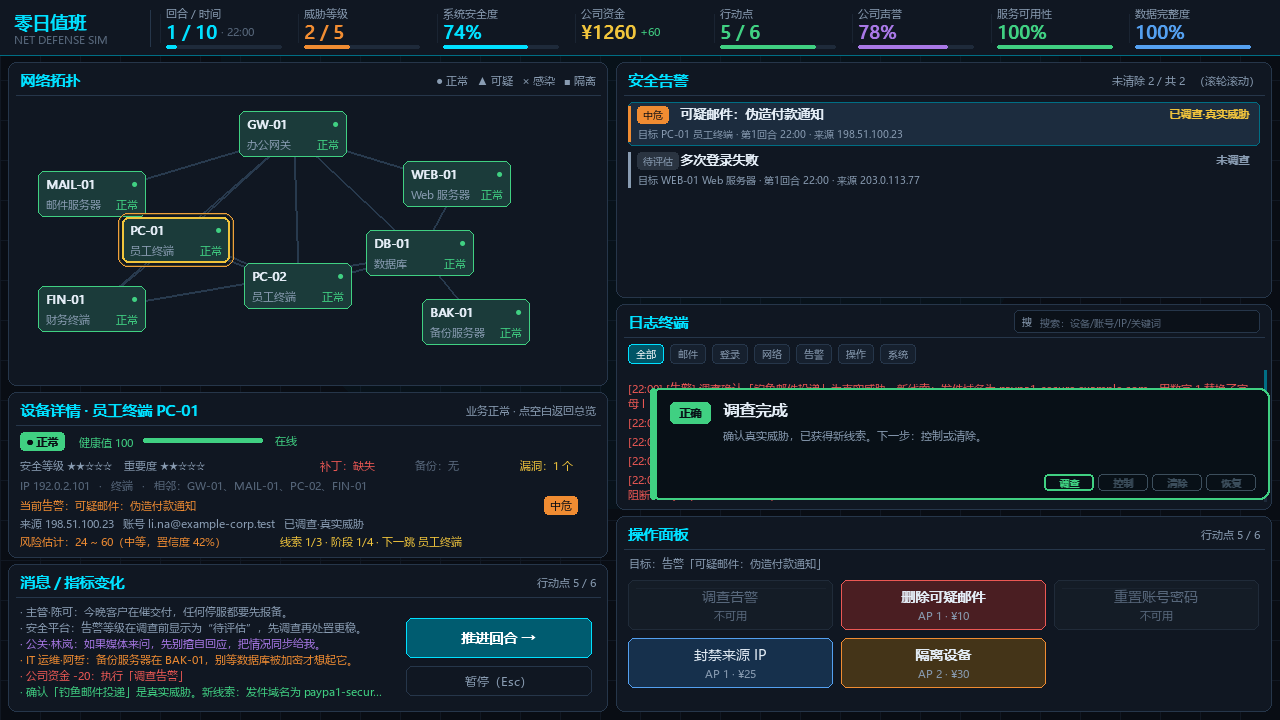
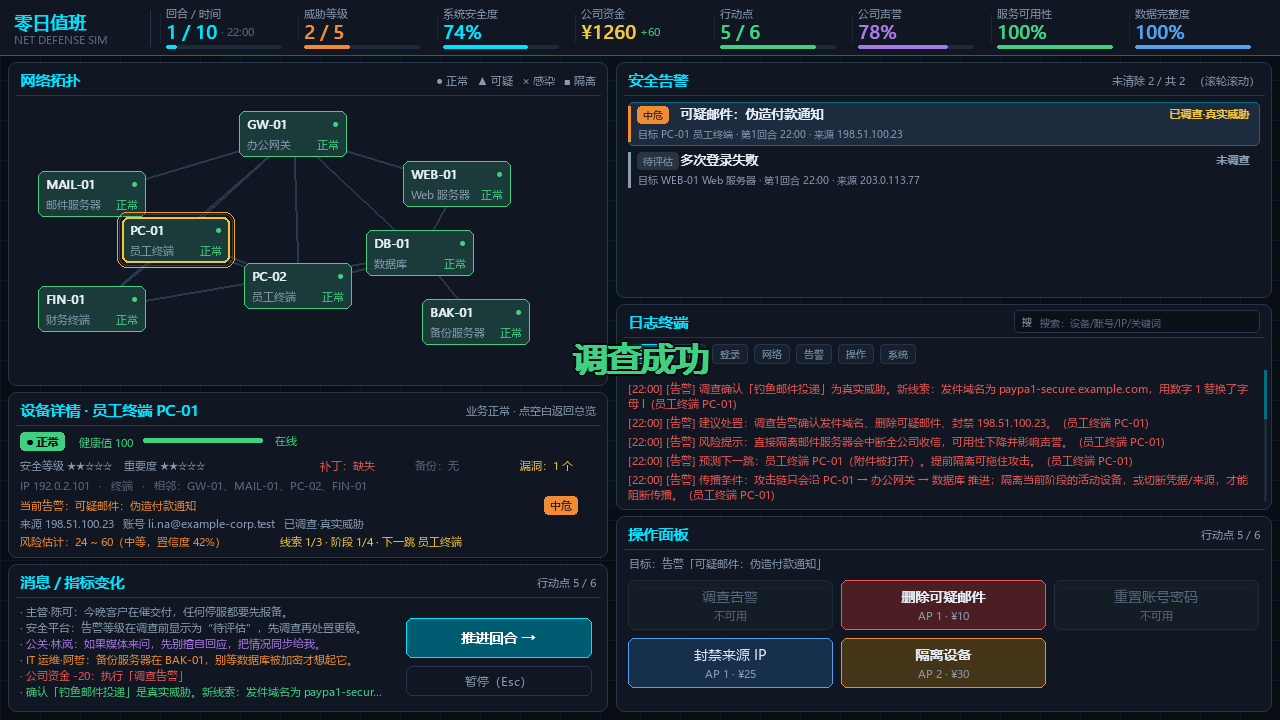
feat: v1.4.3 反馈改为居中透明单句

Changed region(s): [[0.4375, 0.4583, 1.0, 0.7028]]

diff --git a/docs/index.html b/docs/index.html
@@ -77,7 +77,7 @@
       <div class="hero-copy">
         <p class="eyebrow reveal">
           <span class="eyebrow-dot"></span>NETWORK DEFENSE SIMULATOR
-          <span class="pill">v1.4.2</span>
+          <span class="pill">v1.4.3</span>
         </p>
         <h1 class="reveal" style="--i:1">守到<br><em>早上八点。</em></h1>
         <p class="lead reveal" style="--i:2">
@@ -207,7 +207,7 @@
             <span class="card-index">05</span>
           </header>
           <h3>每一步都有反馈</h3>
-          <p>调查、控制、清除、恢复后，屏幕右下直接显示「为什么这一步是对的」，并标出所处阶段；不再只写进日志。</p>
+          <p>调查、控制、清除、恢复后，屏幕中央只显示一句「调查成功 / 控制成功 / 清除成功 / 恢复完成」，透明无框；不再只写进日志。</p>
         </article>
 
         <article class="card reveal" style="--i:5">

diff --git a/docs/style.css b/docs/style.css
@@ -634,10 +634,10 @@ main { position: relative; z-index: 2; }
   font-family: var(--mono);
   font-size: 10.5px;
   letter-spacing: .14em;
-  color: rgba(122, 242, 255, .8);
+  color: rgba(122, 242, 255, .9);
 }
 .rail strong { display: block; font-size: 14.5px; margin-bottom: 4px; }
-.rail p { color: var(--faint); font-size: 12.5px; line-height: 1.7; }
+.rail p { color: rgba(159, 179, 199, .82); font-size: 12.5px; line-height: 1.7; }
 
 /* ------------------------------ 数字带 ------------------------------ */
 .stats {

diff --git a/ui/effects.py b/ui/effects.py
@@ -206,47 +206,22 @@ class EffectsManager:
         feedback = self.feedback
         if feedback is None:
             return
+        progress = 1.0 - feedback.life / feedback.total
         alpha = 255
-        if feedback.life < 0.45:
-            alpha = int(255 * feedback.life / 0.45)
-        width = 620
-        height = 112
-        x = 650
-        y = 388
-        panel = pygame.Surface((width, height), pygame.SRCALPHA)
-        pygame.draw.rect(panel, (8, 16, 23, alpha), panel.get_rect(), border_radius=10)
-        pygame.draw.rect(panel, (*feedback.color, alpha), panel.get_rect(), 2, border_radius=10)
-        pygame.draw.rect(panel, (*feedback.color, alpha), (0, 0, 7, height), border_radius=3)
-        tag_font = draw_utils.get_font(11, True)
-        tag_text = "正确" if feedback.correct else "注意"
-        tag = tag_font.render(tag_text, True, (8, 16, 23))
-        tag_bg = pygame.Rect(20, 14, tag.get_width() + 18, 22)
-        pygame.draw.rect(panel, (*feedback.color, alpha), tag_bg, border_radius=5)
-        panel.blit(tag, (tag_bg.x + 9, tag_bg.y + 3))
-        title_font = draw_utils.get_font(16, True)
-        panel.blit(title_font.render(feedback.title, True, settings.TEXT), (20 + tag_bg.width + 12, 11))
-        draw_utils.draw_text_block(
-            panel,
-            feedback.detail,
-            draw_utils.get_font(11),
-            settings.TEXT_DIM,
-            (20 + tag_bg.width + 12, 40),
-            width - tag_bg.width - 52,
-            line_height=16,
-            max_lines=2,
-        )
-        if feedback.stage:
-            stages = ("调查", "控制", "清除", "恢复")
-            stage_font = draw_utils.get_font(10, True)
-            x_stage = width - 226
-            for index, name in enumerate(stages):
-                active = name == feedback.stage
-                color = feedback.color if active else (60, 78, 92)
-                chip = pygame.Rect(x_stage + index * 54, height - 26, 50, 17)
-                pygame.draw.rect(panel, (*color, alpha), chip, border_radius=4, width=2 if active else 1)
-                image = stage_font.render(name, True, color)
-                panel.blit(image, (chip.centerx - image.get_width() // 2, chip.y + 2))
-        surface.blit(panel, (x, y))
+        if feedback.life < 0.55:
+            alpha = int(255 * feedback.life / 0.55)
+        title = feedback.title
+        font = draw_utils.get_font(34, True)
+        text = font.render(title, True, feedback.color)
+        text.set_alpha(alpha)
+        x = settings.SCREEN_WIDTH // 2 - text.get_width() // 2
+        y = settings.SCREEN_HEIGHT // 2 - text.get_height() // 2 - int(progress * 24)
+        # 只保留一句结果，不加底板、不加边框；用深色描边保证在复杂背景上可读。
+        shadow = font.render(title, True, (3, 7, 10))
+        shadow.set_alpha(int(alpha * 0.8))
+        for dx, dy in ((-2, 0), (2, 0), (0, -2), (0, 2)):
+            surface.blit(shadow, (x + dx, y + dy))
+        surface.blit(text, (x, y))
 
     def _draw_particles(self, surface: pygame.Surface) -> None:
         for particle in self.particles:

diff --git a/tests/test_smoke.py b/tests/test_smoke.py
@@ -486,11 +486,13 @@ class GameFlowTest(unittest.TestCase):
         self.assertIsNotNone(game.effects.feedback)
         assert game.effects.feedback is not None
         self.assertTrue(game.effects.feedback.correct)
+        self.assertEqual(game.effects.feedback.title, "调查成功")
         self.assertEqual(game.effects.feedback.stage, "调查")
 
         game.select_device("PC-01")
         game.perform_action(self._option("isolate"), game.current_target())
         assert game.effects.feedback is not None
+        self.assertEqual(game.effects.feedback.title, "控制成功")
         self.assertEqual(game.effects.feedback.stage, "控制")
         game.draw()  # 反馈卡必须能实际绘制，不能只存在于状态里
 

diff --git a/game.py b/game.py
@@ -837,12 +837,8 @@ class Game:
         stage = ""
         if action_id == "investigate":
             stage = "调查"
-            if "误报" in result.message:
-                title = "判断正确：误报"
-                detail = "确认是误报。关闭告警即可，不需要隔离设备。"
-            else:
-                title = "调查完成"
-                detail = "确认真实威胁，已获得新线索。下一步：控制或清除。"
+            title = "调查成功"
+            detail = result.message
         elif action_id in ("isolate", "shutdown", "block_source"):
             stage = "控制"
             title = "控制成功"

diff --git a/settings.py b/settings.py
@@ -52,7 +52,7 @@ HISTORY_FILE = SAVE_DIR / "history.json"
 # 基本信息
 # ---------------------------------------------------------------------------
 GAME_TITLE = "零日值班：网络安全防御模拟器"
-GAME_VERSION = "v1.4.2"
+GAME_VERSION = "v1.4.3"
 COMPANY_NAME = "云栖示例科技（虚构）"
 
 SCREEN_WIDTH = 1280

diff --git a/README.md b/README.md
@@ -34,7 +34,7 @@
 
 ![结算界面](assets/screenshots/result.png)
 
-> Windows 免安装版：[下载 v1.4.2 Release](https://github.com/telling890/zero-day-duty/releases/latest)（`ZeroDayDuty-Windows-x64.zip`），解压后双击 `零日值班.exe`，无需安装 Python。
+> Windows 免安装版：[下载 v1.4.3 Release](https://github.com/telling890/zero-day-duty/releases/latest)（`ZeroDayDuty-Windows-x64.zip`），解压后双击 `零日值班.exe`，无需安装 Python。
 > 源码仓库：[github.com/telling890/zero-day-duty](https://github.com/telling890/zero-day-duty)
 > 项目主页：[telling890.github.io/zero-day-duty](https://telling890.github.io/zero-day-duty/)
 
@@ -91,10 +91,10 @@ python main.py
 | 日志搜索 | 点击右上角搜索框输入关键词（英文、数字最稳定） |
 | 日志 / 告警滚动 | 鼠标悬停在对应区域，滚轮上下滚动 |
 
-## 四、v1.4.2 已实现内容
+## 四、v1.4.3 已实现内容
 
 - Pygame 窗口、主菜单、12 页新手教程 + 6 步实战演练、暂停、帮助手册、结算、安全加固商店、历史排行榜、剧情决策浮层
-- v1.4 正确反馈：操作后屏幕右下显示“调查完成/控制成功/清除成功/恢复完成”，并标出所处阶段
+- v1.4 正确反馈：操作后屏幕中央只显示“调查成功/控制成功/清除成功/恢复完成”，透明无框
 - 12 页新手教程 + 6 步完整演练：调查 → 控制 → 清除 → 恢复 → 推进回合
 - 夜班交接简报、角色留言、早间新闻、低频环境底噪、服务中断播报
 - 三段式响应：**控制 → 清除 → 恢复**；隔离/关停只完成控制，事件不会自动结束
@@ -335,7 +335,7 @@ py -3.10 tests\test_smoke.py
 
 ### 手工检查清单
 
-- [ ] 启动窗口标题为“零日值班：网络安全防御模拟器 v1.4.2”，尺寸 1280×720
+- [ ] 启动窗口标题为“零日值班：网络安全防御模拟器 v1.4.3”，尺寸 1280×720
 - [ ] 主菜单开始值班后出现夜班交接简报，点击“进入值班”关闭
 - [ ] 左下角服务面板显示 6 项业务服务；隔离关键设备后出现“中断”和收入损失
 - [ ] 隔离事件后告警显示“已控制·待清除”，设备面板出现“清除威胁”
